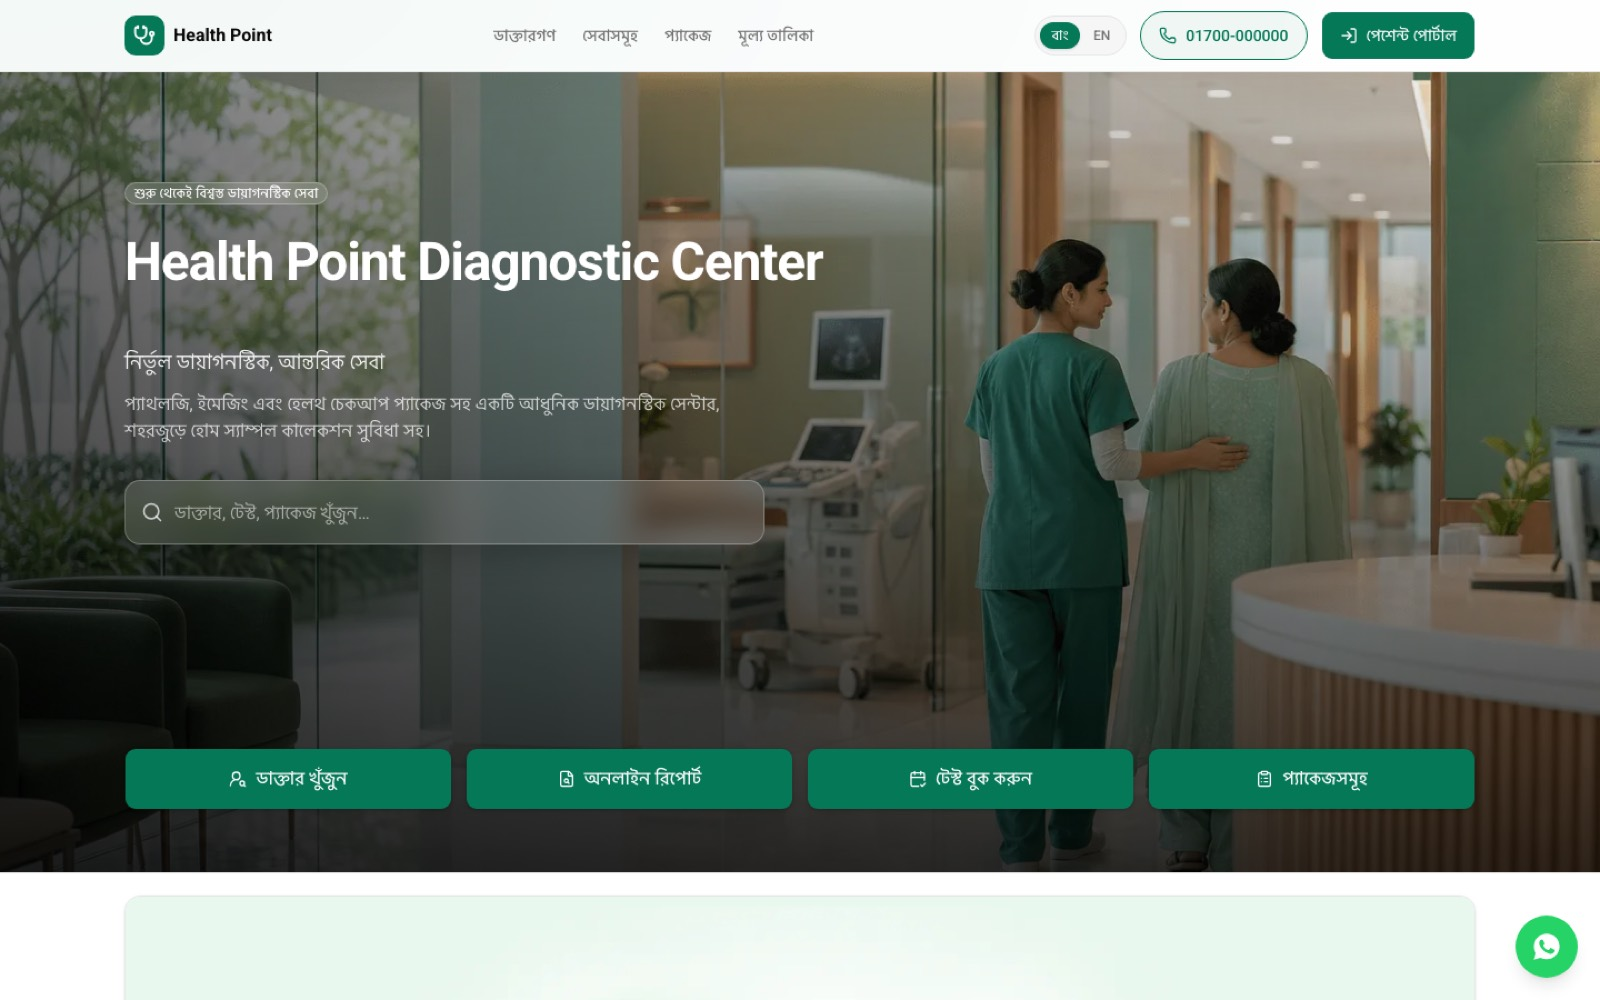
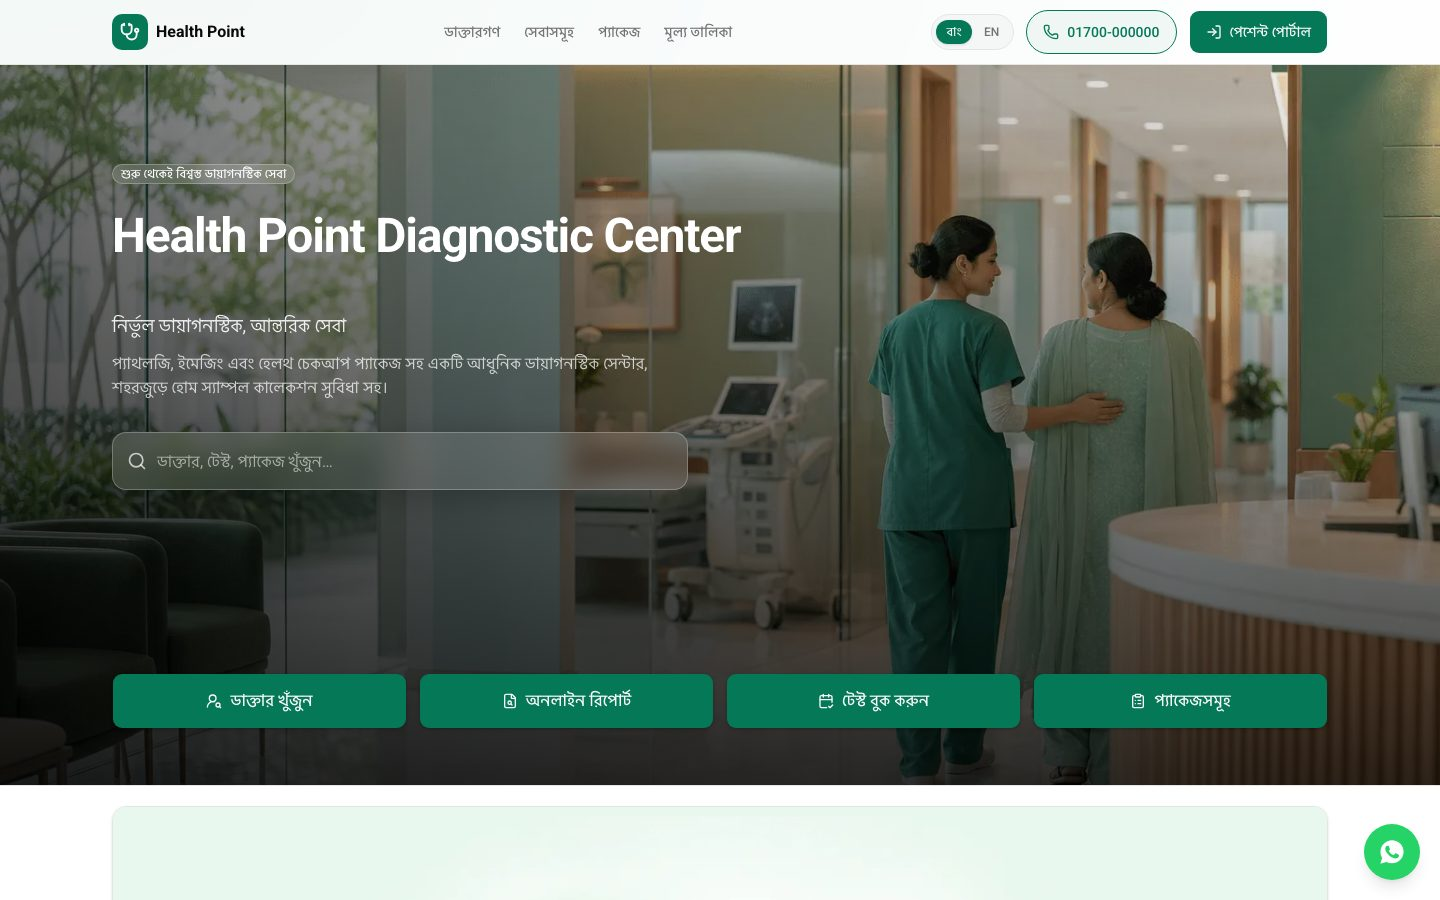
Remove CQMS project image and update screenshot capture script to support multiple image formats. Enhance project data in site.ts with new entries and descriptions for various projects, including "Inventive Lab," "ChiliRig," and "Invoice Management." Update UI text for clarity in the Work component.

diff --git a/src/data/site.ts b/src/data/site.ts
@@ -43,10 +43,12 @@ export type Project = {
 };
 
 /**
- * Portfolio projects — tight shortlist.
- * Featured = main grid (case-study depth). Non-featured with image = "More work".
+ * Portfolio projects.
+ * Order: hosted/live first (by competency), then unhosted.
+ * Featured = main grid. Non-featured with image = "More work".
  */
 export const projects: Project[] = [
+  // ——— Hosted (live URL) — strongest first ———
   {
     title: "OneSign",
     subtitle: "Digital signage platform",
@@ -62,22 +64,6 @@ export const projects: Project[] = [
     repo: "https://github.com/Inventive-Lab-Inc/onesign",
     year: "2025–2026",
     image: "/projects/onesign.jpg",
-    featured: true,
-  },
-  {
-    title: "Caliper",
-    subtitle: "AI CV screening",
-    description:
-      "Recruiter-facing CV screening product: upload or pull CVs, score candidates against job criteria, and surface related LinkedIn profiles — React frontend with a Fastify API on AWS.",
-    highlights: [
-      "Designed a production architecture: React + Vite client, Fastify API, Google OAuth, AWS RDS Postgres, and S3 for CV storage.",
-      "Built AI scoring against job criteria with optional Recruitee / profile-discovery integrations.",
-      "Workspace provisioning, JWT auth via Google JWKS, and encrypted workspace API keys at the boundary.",
-    ],
-    stack: ["React", "TypeScript", "Fastify", "AWS", "PostgreSQL", "S3"],
-    repo: "https://github.com/aminulnv/Caliper-CV-Screening",
-    year: "2026",
-    image: "/projects/caliper.png",
     featured: true,
   },
   {
@@ -98,8 +84,7 @@ export const projects: Project[] = [
     featured: true,
   },
   {
-    title: "Diagnostic Center",
-    subtitle: "Healthcare portal",
+    title: "Diagnostic Center",    subtitle: "Healthcare portal",
     description:
       "Multi-tenant diagnostic template with a bilingual public site (Bangla / English), patient OTP portal, and staff admin for bookings and reports.",
     highlights: [
@@ -115,33 +100,147 @@ export const projects: Project[] = [
     featured: true,
   },
   {
-    title: "CDBL Investor Portal",
-    subtitle: "Capital markets platform",
+    title: "Inventive Lab",
+    subtitle: "Company website",
     description:
-      "Lead developer for Tech4Time on a multi-module platform for Central Depository Bangladesh Limited (CDBL) — investor, data, document, nominee, and client management plus a companion Android app.",
+      "Marketing site for Inventive Lab Inc — product studio behind OneSign and client systems across legal, healthcare, and capital markets.",
     highlights: [
-      "Owned end-to-end delivery across Investor Portal, Data Portal, Document Management, Nominee Management, and Client Management.",
-      "Full stack from system architecture and Figma UX through React/Next.js, Node.js on AWS, and PostgreSQL.",
-      "Shipped a companion Android app (Java/Kotlin) integrated with the web platform.",
+      "Shipped a responsive Next.js marketing site for the studio brand and product narrative.",
+      "Positioned OneSign and delivery capabilities for prospects and partners.",
     ],
-    stack: ["TypeScript", "React", "Next.js", "Node.js", "AWS", "PostgreSQL", "Kotlin"],
+    stack: ["Next.js", "TypeScript", "Tailwind CSS"],
+    live: "https://inventivelab.bd",
+    repo: "https://github.com/mr-aminul/inventivelab-website",
     year: "2026",
-    image: "/projects/cdbl-investor-portal.png",
+    image: "/projects/inventivelab.png",
     featured: true,
   },
   {
-    title: "CQMS",
-    subtitle: "Enterprise quality & audit platform",
+    title: "ChiliRig",
+    subtitle: "Order & ops platform",
     description:
-      "AI-assisted quality management system for NEXT Ventures — audits, scoring, and ops workflows used across a global workforce, replacing multiple commercial SaaS tools.",
+      "Order management product with cancellation flows, address validation, and Discord notifications for ops handoff.",
     highlights: [
-      "Core contributor on a large production web platform (CQMS / Web-CQMS) used by 500–700 employees globally.",
-      "Helped cut audit time ~50%, consolidate 4+ tools, and replace Scorebuddy — $4,000+ annual savings.",
-      "Shipped AI-powered audit flows with progress tracking and results surfaces for ops leadership.",
+      "Built order lifecycle surfaces with cancellation and address validation.",
+      "Integrated Discord alerts so ops teams catch order events in realtime.",
     ],
-    stack: ["TypeScript", "React", "Next.js", "PostgreSQL", "n8n", "AWS"],
-    year: "2025–2026",
-    image: "/projects/cqms.png",
+    stack: ["Next.js", "TypeScript", "Vercel"],
+    live: "https://chilirig.vercel.app",
+    repo: "https://github.com/mr-aminul/chilirig",
+    year: "2026",
+    image: "/projects/chilirig-hero.png",
+    featured: true,
+  },
+  {
+    title: "Invoice Management",
+    subtitle: "Invoicing & estimates",
+    description:
+      "Business invoicing workspace — create invoices and estimates, manage businesses, and handle credit notes in a responsive TypeScript app.",
+    highlights: [
+      "Shipped invoice, estimate, and credit-note flows with multi-business selection.",
+      "Polished responsive forms and layout for day-to-day finance ops.",
+    ],
+    stack: ["React", "TypeScript", "Vite"],
+    live: "https://invoice-management-system-three-chi.vercel.app",
+    repo: "https://github.com/mr-aminul/invoice-management-system",
+    year: "2026",
+    image: "/projects/invoice-management.png",
+    featured: true,
+  },
+  {
+    title: "Bus Management System",
+    subtitle: "Fleet & operations",
+    description:
+      "Fleet operations dashboard for routes, tickets, counters, and reporting — a TypeScript ops console for bus operators.",
+    highlights: [
+      "Built operations dashboard covering fleet, routes, tickets, and counters.",
+      "Shipped reports and navigation shell ready for operator workflows.",
+    ],
+    stack: ["React", "TypeScript", "Vite"],
+    live: "https://bus-mgt-system.vercel.app",
+    repo: "https://github.com/mr-aminul/bus-mgt-system",
+    year: "2026",
+    image: "/projects/bus-mgt-login.png",
+    featured: true,
+  },
+  {
+    title: "Auth Basement",
+    subtitle: "Auth starter kit",
+    description:
+      "Reusable React + TypeScript authentication template on Supabase Auth — sign up, sign in, password reset, and a responsive app shell.",
+    highlights: [
+      "Packaged auth context, protected routes, and default auth pages for reuse across clients.",
+      "Sidebar/top-bar app layout with responsive drawer behavior out of the box.",
+    ],
+    stack: ["React", "TypeScript", "Supabase", "Vite"],
+    live: "https://auth-basement.vercel.app",
+    repo: "https://github.com/mr-aminul/Auth-Basement",
+    year: "2026",
+    image: "/projects/auth-basement.png",
+    featured: true,
+  },
+  {
+    title: "SaaS Basement",
+    subtitle: "SaaS app shell",
+    description:
+      "Reusable SaaS starter with Supabase Auth and a top-navigation app shell — drop-in foundation for multi-client products.",
+    highlights: [
+      "Auth flows plus top-nav layout ready to point at any Supabase project.",
+      "Shared config for brand, nav, and page headings so new apps start faster.",
+    ],
+    stack: ["React", "TypeScript", "Supabase", "Vite"],
+    live: "https://saas-basement.vercel.app",
+    repo: "https://github.com/mr-aminul/SaaS-Basement",
+    year: "2026",
+    image: "/projects/saas-basement.png",
+    featured: true,
+  },
+  {
+    title: "MoneyLogger",
+    subtitle: "Expense tracker",
+    description:
+      "Personal finance app with Google sign-in, budgets, charts, CSV export, and voice input — React + Supabase.",
+    highlights: [
+      "Built expense CRUD, category budgets, and monthly/yearly summaries with charts.",
+      "Added voice input and Google auth via Supabase for cross-device sync.",
+    ],
+    stack: ["React", "TypeScript", "Supabase", "Recharts"],
+    live: "https://moneylogger.vercel.app",
+    repo: "https://github.com/mr-aminul/moneylogger",
+    year: "2026",
+    image: "/projects/moneylogger.png",
+    featured: true,
+  },
+  {
+    title: "Shah Jalal Fabricators",
+    subtitle: "Business website",
+    description:
+      "Marketing site for Shah Jalal Fabricators — company presence and services on a Vite/JS frontend deployed to Vercel.",
+    highlights: [
+      "Shipped a client-facing business website with Vercel deploy config.",
+      "Structured web build for a production fabricators brand.",
+    ],
+    stack: ["JavaScript", "Vite", "Vercel"],
+    live: "https://shahjalal-fabricators.vercel.app",
+    repo: "https://github.com/mr-aminul/shahjalal-fabricators",
+    year: "2026",
+    image: "/projects/shahjalal-fabricators.png",
+    featured: true,
+  },
+  {
+    title: "CustomEcom",
+    subtitle: "Ecommerce admin + storefront",
+    description:
+      "Open-source ecommerce admin and shop — products, orders, customers, and store settings on Next.js with shadcn/ui, plus a customer-facing storefront.",
+    highlights: [
+      "Built product, order, and customer management surfaces with a clean shadcn/ui shell.",
+      "Shipped cart/checkout storefront alongside the admin dashboard.",
+    ],
+    stack: ["Next.js", "TypeScript", "Tailwind CSS", "shadcn/ui"],
+    live: "https://ecommerce-sand-gamma-74.vercel.app",
+    repo: "https://github.com/mr-aminul/ecommerce",
+    year: "2026",
+    image: "/projects/customecom.png",
     featured: true,
   },
   {
@@ -155,9 +254,58 @@ export const projects: Project[] = [
       "Collaborated across web and mobile surfaces used in live store operations.",
     ],
     stack: ["TypeScript", "React", "Express", "Mobile"],
+    live: "https://krunch-xi.vercel.app/pos",
     repo: "https://github.com/SaifIvnaAlam/krunch-pos",
     year: "2026",
     image: "/projects/krunch-pos.png",
+    featured: true,
+  },
+  {
+    title: "QuizMaster",
+    subtitle: "Interactive quiz platform",
+    description:
+      "University project — interactive quiz platform built with PHP and MySQL, deployed with a live Vercel demo.",
+    highlights: [
+      "Built quiz flows on PHP + MySQL with a deployable Vercel surface.",
+      "Documented live demo for coursework presentation.",
+    ],
+    stack: ["PHP", "MySQL", "Vercel"],
+    live: "https://quizmaster-liard-six.vercel.app",
+    repo: "https://github.com/mr-aminul/QuizMaster",
+    year: "2026",
+    image: "/projects/quizmaster.png",
+    featured: true,
+  },
+
+  // ——— Unhosted (no public live URL) — by competency ———
+  {
+    title: "Caliper",
+    subtitle: "AI CV screening",
+    description:
+      "Recruiter-facing CV screening product: upload or pull CVs, score candidates against job criteria, and surface related LinkedIn profiles — React frontend with a Fastify API on AWS.",
+    highlights: [
+      "Designed a production architecture: React + Vite client, Fastify API, Google OAuth, AWS RDS Postgres, and S3 for CV storage.",
+      "Built AI scoring against job criteria with optional Recruitee / profile-discovery integrations.",
+      "Workspace provisioning, JWT auth via Google JWKS, and encrypted workspace API keys at the boundary.",
+    ],
+    stack: ["React", "TypeScript", "Fastify", "AWS", "PostgreSQL", "S3"],
+    repo: "https://github.com/aminulnv/Caliper-CV-Screening",
+    year: "2026",
+    image: "/projects/caliper-login.png",
+  },
+  {
+    title: "CDBL Investor Portal",
+    subtitle: "Capital markets platform",
+    description:
+      "Lead developer for Tech4Time on a multi-module platform for Central Depository Bangladesh Limited (CDBL) — investor, data, document, nominee, and client management plus a companion Android app.",
+    highlights: [
+      "Owned end-to-end delivery across Investor Portal, Data Portal, Document Management, Nominee Management, and Client Management.",
+      "Full stack from system architecture and Figma UX through React/Next.js, Node.js on AWS, and PostgreSQL.",
+      "Shipped a companion Android app (Java/Kotlin) integrated with the web platform.",
+    ],
+    stack: ["TypeScript", "React", "Next.js", "Node.js", "AWS", "PostgreSQL", "Kotlin"],
+    year: "2026",
+    image: "/projects/cdbl-investor-portal.png",
   },
 ];
 

diff --git a/src/components/Work.tsx b/src/components/Work.tsx
@@ -155,7 +155,7 @@ export function Work() {
 
         {more.length > 0 ? (
           <div className="reveal mt-10">
-            <p className="section-label mb-4">More work</p>
+            <p className="section-label mb-4">Also shipped</p>
             <ul className="grid grid-cols-1 gap-5 sm:grid-cols-2">
               {more.map((project) => (
                 <li key={`${project.title}-${project.year}-${project.subtitle}`}>
